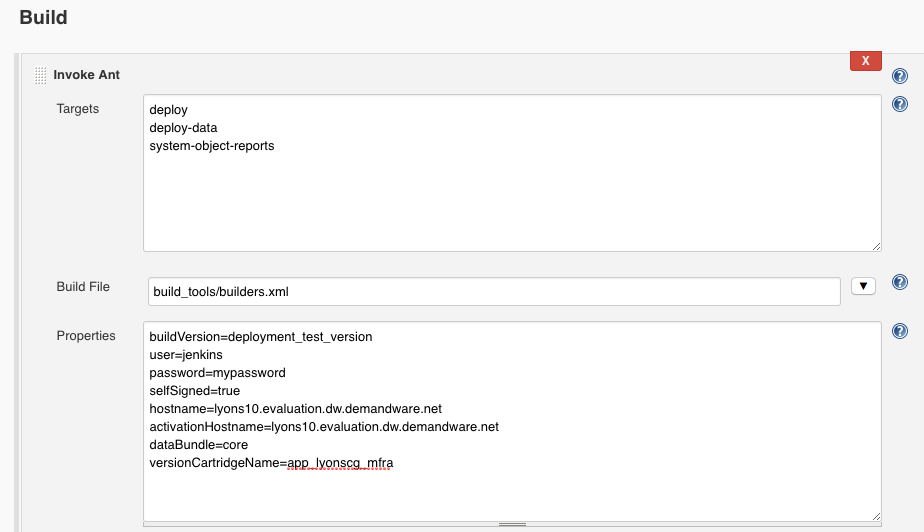
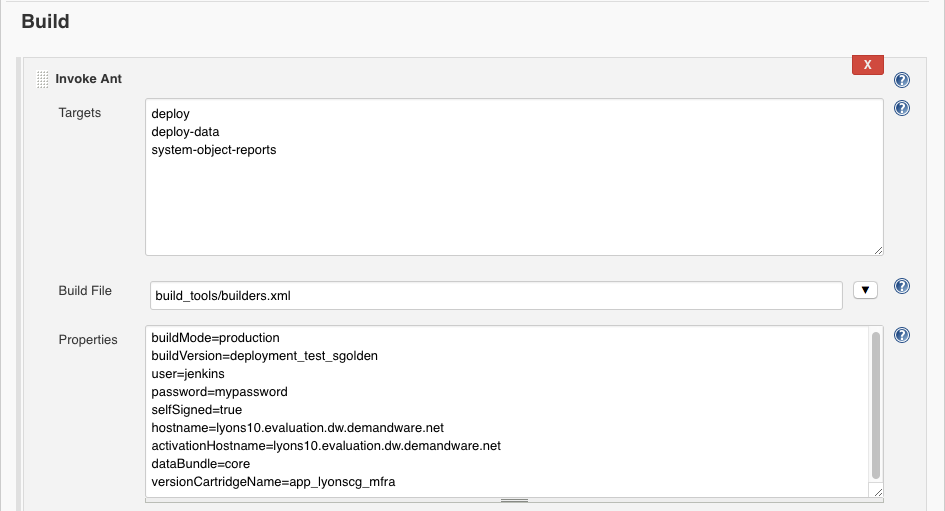
applying environment flag for webpack

diff --git a/build_tools/webpack.config.js b/build_tools/webpack.config.js
@@ -1,128 +1,135 @@
 /* globals cat, cd, cp, echo, exec, exit, find, ls, mkdir, rm, target, test */
 'use strict';
-try{
-require('shelljs/make');
-var path = require('path');
-var webpack = require('webpack');
-var ExtractTextPlugin = require('extract-text-webpack-plugin');
-var OptimizeCssAssetsPlugin = require('optimize-css-assets-webpack-plugin');
-const chalk = require('chalk');
-const verbose = true;
+try {
+    require('shelljs/make');
+    const path = require('path');
+    const webpack = require('webpack');
+    const ExtractTextPlugin = require('extract-text-webpack-plugin');
+    const OptimizeCssAssetsPlugin = require('optimize-css-assets-webpack-plugin');
+    const chalk = require('chalk');
 
-var bootstrapPackages = {
-    Alert: 'exports-loader?Alert!bootstrap/js/src/alert',
-    // Button: 'exports-loader?Button!bootstrap/js/src/button',
-    Carousel: 'exports-loader?Carousel!bootstrap/js/src/carousel',
-    Collapse: 'exports-loader?Collapse!bootstrap/js/src/collapse',
-    // Dropdown: 'exports-loader?Dropdown!bootstrap/js/src/dropdown',
-    Modal: 'exports-loader?Modal!bootstrap/js/src/modal',
-    // Popover: 'exports-loader?Popover!bootstrap/js/src/popover',
-    Scrollspy: 'exports-loader?Scrollspy!bootstrap/js/src/scrollspy',
-    Tab: 'exports-loader?Tab!bootstrap/js/src/tab',
-    // Tooltip: 'exports-loader?Tooltip!bootstrap/js/src/tooltip',
-    Util: 'exports-loader?Util!bootstrap/js/src/util'
-};
+    const verbose = true;
 
+    const bootstrapPackages = {
+        Alert: 'exports-loader?Alert!bootstrap/js/src/alert',
+        // Button: 'exports-loader?Button!bootstrap/js/src/button',
+        Carousel: 'exports-loader?Carousel!bootstrap/js/src/carousel',
+        Collapse: 'exports-loader?Collapse!bootstrap/js/src/collapse',
+        // Dropdown: 'exports-loader?Dropdown!bootstrap/js/src/dropdown',
+        Modal: 'exports-loader?Modal!bootstrap/js/src/modal',
+        // Popover: 'exports-loader?Popover!bootstrap/js/src/popover',
+        Scrollspy: 'exports-loader?Scrollspy!bootstrap/js/src/scrollspy',
+        Tab: 'exports-loader?Tab!bootstrap/js/src/tab',
+        // Tooltip: 'exports-loader?Tooltip!bootstrap/js/src/tooltip',
+        Util: 'exports-loader?Util!bootstrap/js/src/util'
+    };
 
-module.exports = function (packageName) { 
-    console.log(chalk.bgMagenta('Webpack config recieved for ' + packageName));
-    var jsFiles = require('./helpers').createJsPath(packageName);
-    var scssFiles = require('./helpers').createScssPath(packageName);
-    if (verbose) {
-        console.log(chalk.gray('Webpack(ing) js files'));
+    module.exports = function (packageName) {
+        console.log(chalk.bgMagenta('Webpack config recieved for ' + packageName));
+
+        let mode = 'development';
+        if (process.env.BUILD_MODE === 'production') {
+            mode = 'production';
+        }
+        console.log(chalk.yellow('Using ' + mode + ' mode in webpack.config.js'));
+
+        const jsFiles = require('./helpers').createJsPath(packageName);
+        const scssFiles = require('./helpers').createScssPath(packageName);
+
+        if (verbose) {
+            console.log(chalk.gray('Webpack(ing) js files'));
+            if (jsFiles) {
+                for (let key in jsFiles) {
+                    console.log('   ' + chalk.gray(jsFiles[key]));
+                }
+            }
+
+            console.log(chalk.gray('Webpack(ing) scss files'));
+            if (scssFiles) {
+                for (let key in scssFiles) {
+                    console.log('    ' + chalk.gray(scssFiles[key]));
+                }
+            }
+        }
+
+        const webpackConfig = [];
         if (jsFiles) {
-            for (var key in jsFiles){
-                console.log('   ' + chalk.gray(jsFiles[key]));
-            }
-        }
-
-        console.log(chalk.gray('Webpack(ing) scss files'));
-        if (scssFiles) {
-            for (var key in scssFiles){
-                console.log('    ' + chalk.gray(scssFiles[key]));
-            }
-        }
-    }
-    
-    var webpackConfig = [];
-    if (jsFiles) {
-        webpackConfig.push({
-            mode: 'production',
-            name: 'js',
-            entry: jsFiles,
-            output: {
-                path: path.resolve('./cartridges/' + packageName + '/cartridge/static'),
-                filename: '[name].js'
-            },
-            module: {
-                rules: [
-                    {
-                        test: /bootstrap(.)*\.js$/,
-                        use: {
-                            loader: 'babel-loader',
-                            options: {
-                                presets: ['@babel/env'],
-                                plugins: ['@babel/plugin-proposal-object-rest-spread'],
-                                cacheDirectory: true
+            webpackConfig.push({
+                mode: mode.toString(),
+                name: 'js',
+                entry: jsFiles,
+                output: {
+                    path: path.resolve('./cartridges/' + packageName + '/cartridge/static'),
+                    filename: '[name].js'
+                },
+                module: {
+                    rules: [
+                        {
+                            test: /bootstrap(.)*\.js$/,
+                            use: {
+                                loader: 'babel-loader',
+                                options: {
+                                    presets: ['@babel/env'],
+                                    plugins: ['@babel/plugin-proposal-object-rest-spread'],
+                                    cacheDirectory: true
+                                }
                             }
                         }
-                    }
-                ]
-            },
-            plugins: [new webpack.ProvidePlugin(bootstrapPackages)]
-        });
-    }
+                    ]
+                },
+                plugins: [new webpack.ProvidePlugin(bootstrapPackages)]
+            });
+        }
 
-    if (scssFiles) {
-        webpackConfig.push({
-            mode: 'none',
-            name: 'scss',
-            entry: scssFiles,
-            output: {
-                path: path.resolve('./cartridges/' + packageName + '/cartridge/static'),
-                filename: '[name].css'
-            },
-            module: {
-                rules: [{
-                    test: /\.scss$/,
-                    use: ExtractTextPlugin.extract({
-                        use: [{
-                            loader: 'css-loader',
-                            options: {
-                                url: false,
-                                minimize: true
-                            }
-                        }, {
-                            loader: 'postcss-loader',
-                            options: {
-                                plugins: [
-                                    require('autoprefixer')()
-                                ]
-                            }
-                        }, {
-                            loader: 'sass-loader',
-                            options: {
-                                includePaths: [
-                                    path.resolve('node_modules'),
-                                    path.resolve('node_modules/flag-icon-css/sass')
-                                ]
-                            }
-                        }]
-                    })
-                }]
-            },
-            plugins: [
-                new ExtractTextPlugin({ filename: '[name].css' }),
-                new OptimizeCssAssetsPlugin()
-            ]
-        });
-    }
+        if (scssFiles) {
+            const plugins = [new ExtractTextPlugin({ filename: '[name].css' })];
+            if (mode == 'production') {
+                plugins.push(new OptimizeCssAssetsPlugin());
+            }
 
+            webpackConfig.push({
+                mode: mode.toString(),
+                name: 'scss',
+                entry: scssFiles,
+                output: {
+                    path: path.resolve('./cartridges/' + packageName + '/cartridge/static'),
+                    filename: '[name].css'
+                },
+                module: {
+                    rules: [{
+                        test: /\.scss$/,
+                        use: ExtractTextPlugin.extract({
+                            use: [{
+                                loader: 'css-loader',
+                                options: {
+                                    url: false,
+                                    minimize: true
+                                }
+                            }, {
+                                loader: 'postcss-loader',
+                                options: {
+                                    plugins: [
+                                        require('autoprefixer')()
+                                    ]
+                                }
+                            }, {
+                                loader: 'sass-loader',
+                                options: {
+                                    includePaths: [
+                                        path.resolve('node_modules'),
+                                        path.resolve('node_modules/flag-icon-css/sass')
+                                    ]
+                                }
+                            }]
+                        })
+                    }]
+                },
+                plugins: plugins
+            });
+        }
 
-    return webpackConfig;
-}
-
-}
-catch(e){
+        return webpackConfig;
+    };
+} catch (e) {
     console.log('... caught exception ' + e.toString());
 }

diff --git a/build_tools/DeployProperties.md b/build_tools/DeployProperties.md
@@ -4,6 +4,8 @@ Below is a list of the properties that can be used as part of the build process.
 
 ## Build Settings
 
+> **buildMode** - the build mode to use during the build tasks. Possible options are: 'development' or 'production' (without quotes). This is used to minify to js and css, etc..
+
 > **buildVersion** - the code version to use during deployment. Uses the Jenkins build date by default.
 
 > **versionCartridgeName** - the cartridge name that will contain the version.properies that will be replaced by Jenkins. This prints the build number in the html title tag. Please note that the file is completely overwritten and the only contents are "global.version.number={buildVersion}". You will need to make sure that "global.site.name" is still defined in a cartridge to the left of the cartridge name defined here. For example, set **versionCartridgeName** to "app_lyonscg_mfra" and make sure that "org_organizationid_mfra" has overwritten/contains "global.site.name"
